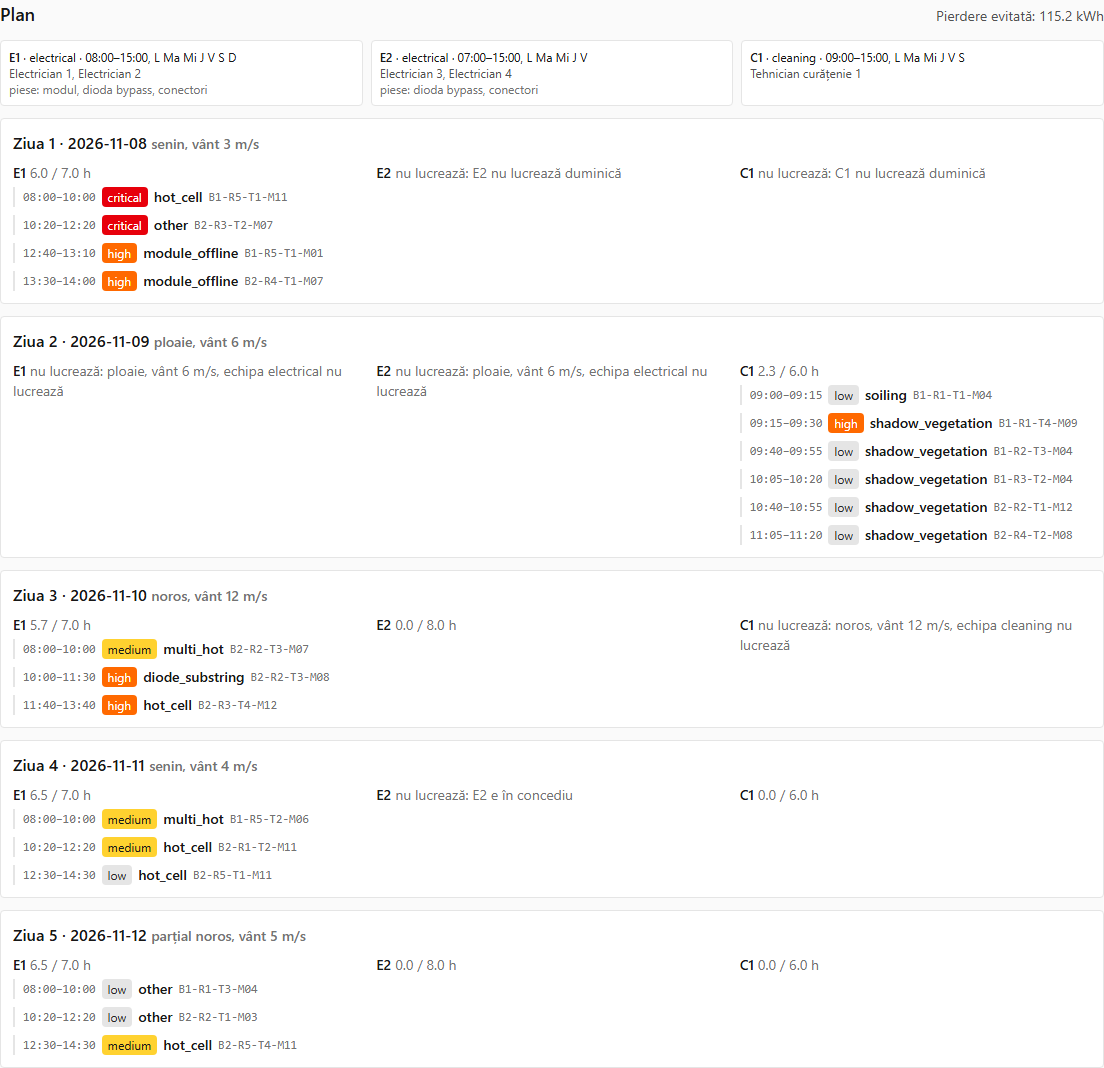
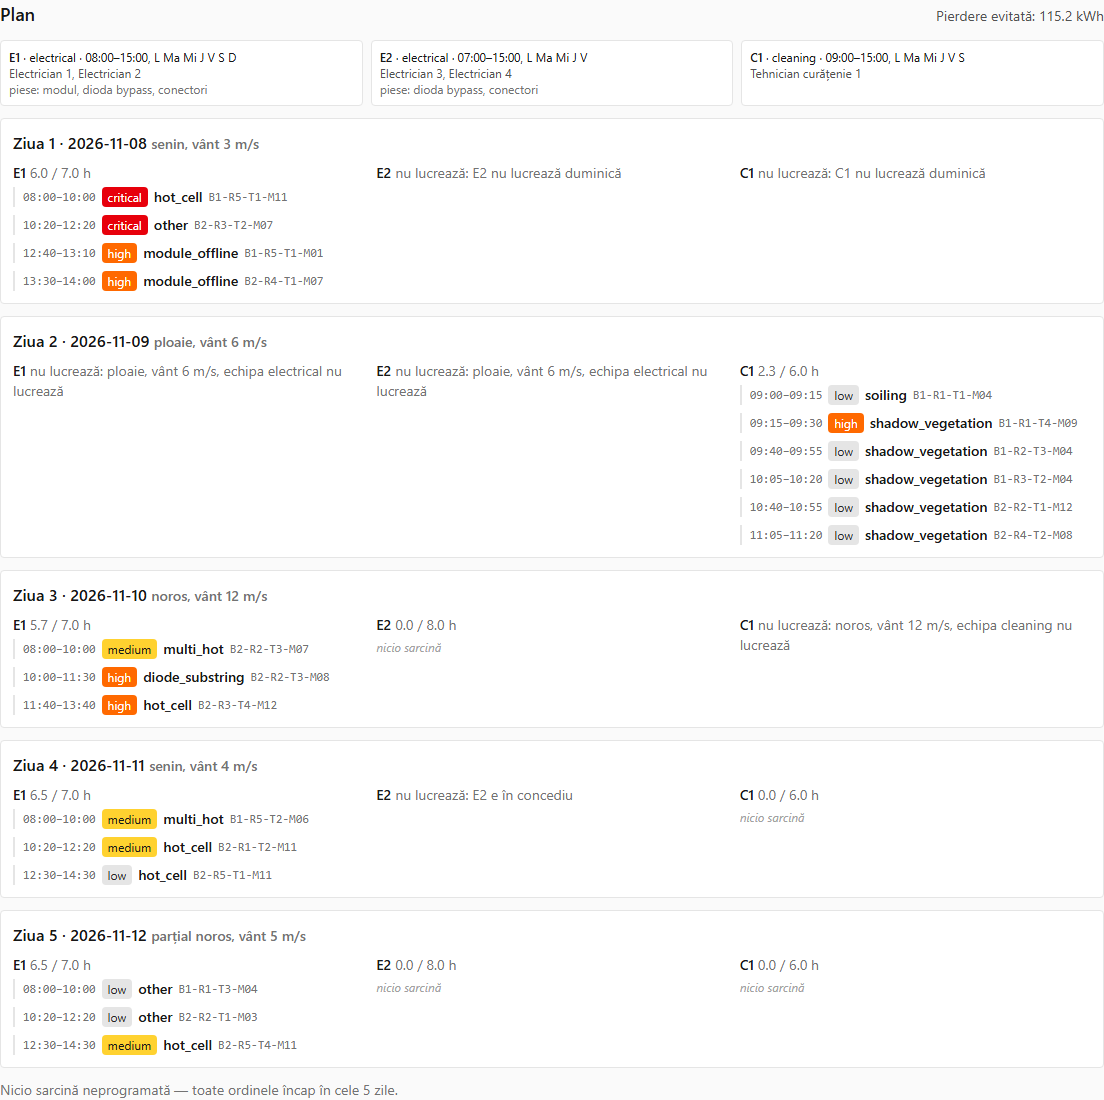
feat(plan): empty states for priorities and crew columns
- PriorityList keeps its columns and shows a message when there are no findings
- the CSV export button appears only when the mission has work orders
- working crews with no task show "nicio sarcină"; an empty plan says so
- e2e asserts the placeholders

diff --git a/frontend/src/components/PriorityList.tsx b/frontend/src/components/PriorityList.tsx
@@ -20,6 +20,7 @@ const COLS = 'grid grid-cols-[5.5rem_8.5rem_minmax(9rem,1fr)_minmax(12rem,1.4fr)
 interface Props {
   missionId: string
   findings: Finding[]
+  hasOrders: boolean
   onReview: (findingId: string, decision: ReviewIn['decision']) => void
 }
 
@@ -63,7 +64,7 @@ function Row({ f, onReview }: { f: Finding; onReview: Props['onReview'] }) {
   )
 }
 
-export default function PriorityList({ missionId, findings, onReview }: Props) {
+export default function PriorityList({ missionId, findings, hasOrders, onReview }: Props) {
   const repair = findings.filter((f) => !f.watch || f.review === 'confirmed')
   const watch = findings.filter((f) => f.watch && f.review !== 'confirmed')
   return (
@@ -75,13 +76,15 @@ export default function PriorityList({ missionId, findings, onReview }: Props) {
             {repair.length} de reparat · {watch.length} de urmărit
           </span>
         </h2>
-        <a
-          href={urls.workOrdersCsv(missionId)}
-          download
-          className="rounded border border-neutral-300 bg-white px-3 py-1 text-sm hover:bg-neutral-100"
-        >
-          Descarcă ordinele de lucru (CSV)
-        </a>
+        {hasOrders && (
+          <a
+            href={urls.workOrdersCsv(missionId)}
+            download
+            className="rounded border border-neutral-300 bg-white px-3 py-1 text-sm hover:bg-neutral-100"
+          >
+            Descarcă ordinele de lucru (CSV)
+          </a>
+        )}
       </header>
       <div className={`${COLS} text-xs text-neutral-500`}>
         <span>Urgență</span>
@@ -92,6 +95,13 @@ export default function PriorityList({ missionId, findings, onReview }: Props) {
         <span>Review</span>
       </div>
       <ul className="text-sm" data-testid="repair-list">
+        {repair.length === 0 && (
+          <li className="border-t border-neutral-200 py-2 text-sm text-neutral-500" data-testid="repair-empty">
+            {findings.length === 0
+              ? 'Nicio prioritate — nu există finding-uri.'
+              : 'Nicio prioritate de reparat; vezi lista „De urmărit".'}
+          </li>
+        )}
         {repair.map((f) => (
           <Row key={f.id} f={f} onReview={onReview} />
         ))}

diff --git a/frontend/src/components/PlanView.tsx b/frontend/src/components/PlanView.tsx
@@ -15,6 +15,8 @@ function Badge({ urgency }: { urgency: WorkOrder['urgency'] }) {
 
 export default function PlanView({ plan, orders }: { plan: Plan; orders: WorkOrder[] }) {
   const order = Object.fromEntries(orders.map((w) => [w.id, w]))
+  const totalTasks = plan.days.reduce((n, d) => n + d.tasks.length, 0)
+  const empty = totalTasks === 0 && plan.unscheduled.length === 0
   return (
     <section className="space-y-3" data-testid="plan">
       <header className="flex items-baseline justify-between">
@@ -32,7 +34,12 @@ export default function PlanView({ plan, orders }: { plan: Plan; orders: WorkOrd
           </li>
         ))}
       </ul>
-      {plan.days.map((day) => (
+      {empty && (
+        <p className="rounded border border-neutral-200 bg-white p-3 text-sm text-neutral-600" data-testid="plan-empty">
+          Nicio sarcină programată — nu există ordine de lucru.
+        </p>
+      )}
+      {!empty && plan.days.map((day) => (
         <div key={day.day} data-testid={`plan-day-${day.day}`} className="rounded border border-neutral-200 bg-white p-3">
           <h3 className="mb-2 font-medium">
             Ziua {day.day} · {day.date} <span className="text-sm text-neutral-500">{day.weather}</span>
@@ -75,11 +82,19 @@ export default function PlanView({ plan, orders }: { plan: Plan; orders: WorkOrd
                       )
                     })}
                 </ul>
+                {!day.tasks.some((t) => t.crew === crew) && day.capacity_h[crew] > 0 && (
+                  <p className="mt-1 text-xs italic text-neutral-400">nicio sarcină</p>
+                )}
               </div>
             ))}
           </div>
         </div>
       ))}
+      {!empty && plan.unscheduled.length === 0 && (
+        <p className="text-sm text-neutral-500">
+          Nicio sarcină neprogramată — toate ordinele încap în cele {plan.days.length} zile.
+        </p>
+      )}
       {plan.unscheduled.length > 0 && (
         <div className="rounded border border-red-200 bg-red-50 p-3" data-testid="unscheduled">
           <h3 className="mb-2 font-medium text-red-800">

diff --git a/frontend/e2e/plan.spec.ts b/frontend/e2e/plan.spec.ts
@@ -27,6 +27,9 @@ test('rejecting a finding takes its work order out of the plan', async ({ page }
   // Without the watch list every order fits in the 5 days, so nothing is left unscheduled
   // (when something is, the table lists module, crew and why: test_planner.py).
   await expect(page.getByTestId('unscheduled')).toHaveCount(0)
+  // A working crew with nothing to do gets a placeholder, and the bottom line says why.
+  await expect(page.getByTestId('plan-day-3')).toContainText('nicio sarcină')
+  await expect(page.getByTestId('plan')).toContainText('Nicio sarcină neprogramată')
   await page.getByTestId('plan').screenshot({ path: '../reports/35-plan-echipe.png' })
   await page.evaluate(() => window.scrollTo(0, 0))
   await page.screenshot({ path: '../reports/35-prioritati.png' })

diff --git a/frontend/src/pages/Plan.tsx b/frontend/src/pages/Plan.tsx
@@ -24,7 +24,12 @@ export default function PlanPage() {
 
   return (
     <div className="space-y-8">
-      <PriorityList missionId={missionId} findings={findings.data} onReview={review} />
+      <PriorityList
+        missionId={missionId}
+        findings={findings.data}
+        hasOrders={orders.data.length > 0}
+        onReview={review}
+      />
       <PlanView plan={plan.data} orders={orders.data} />
     </div>
   )
